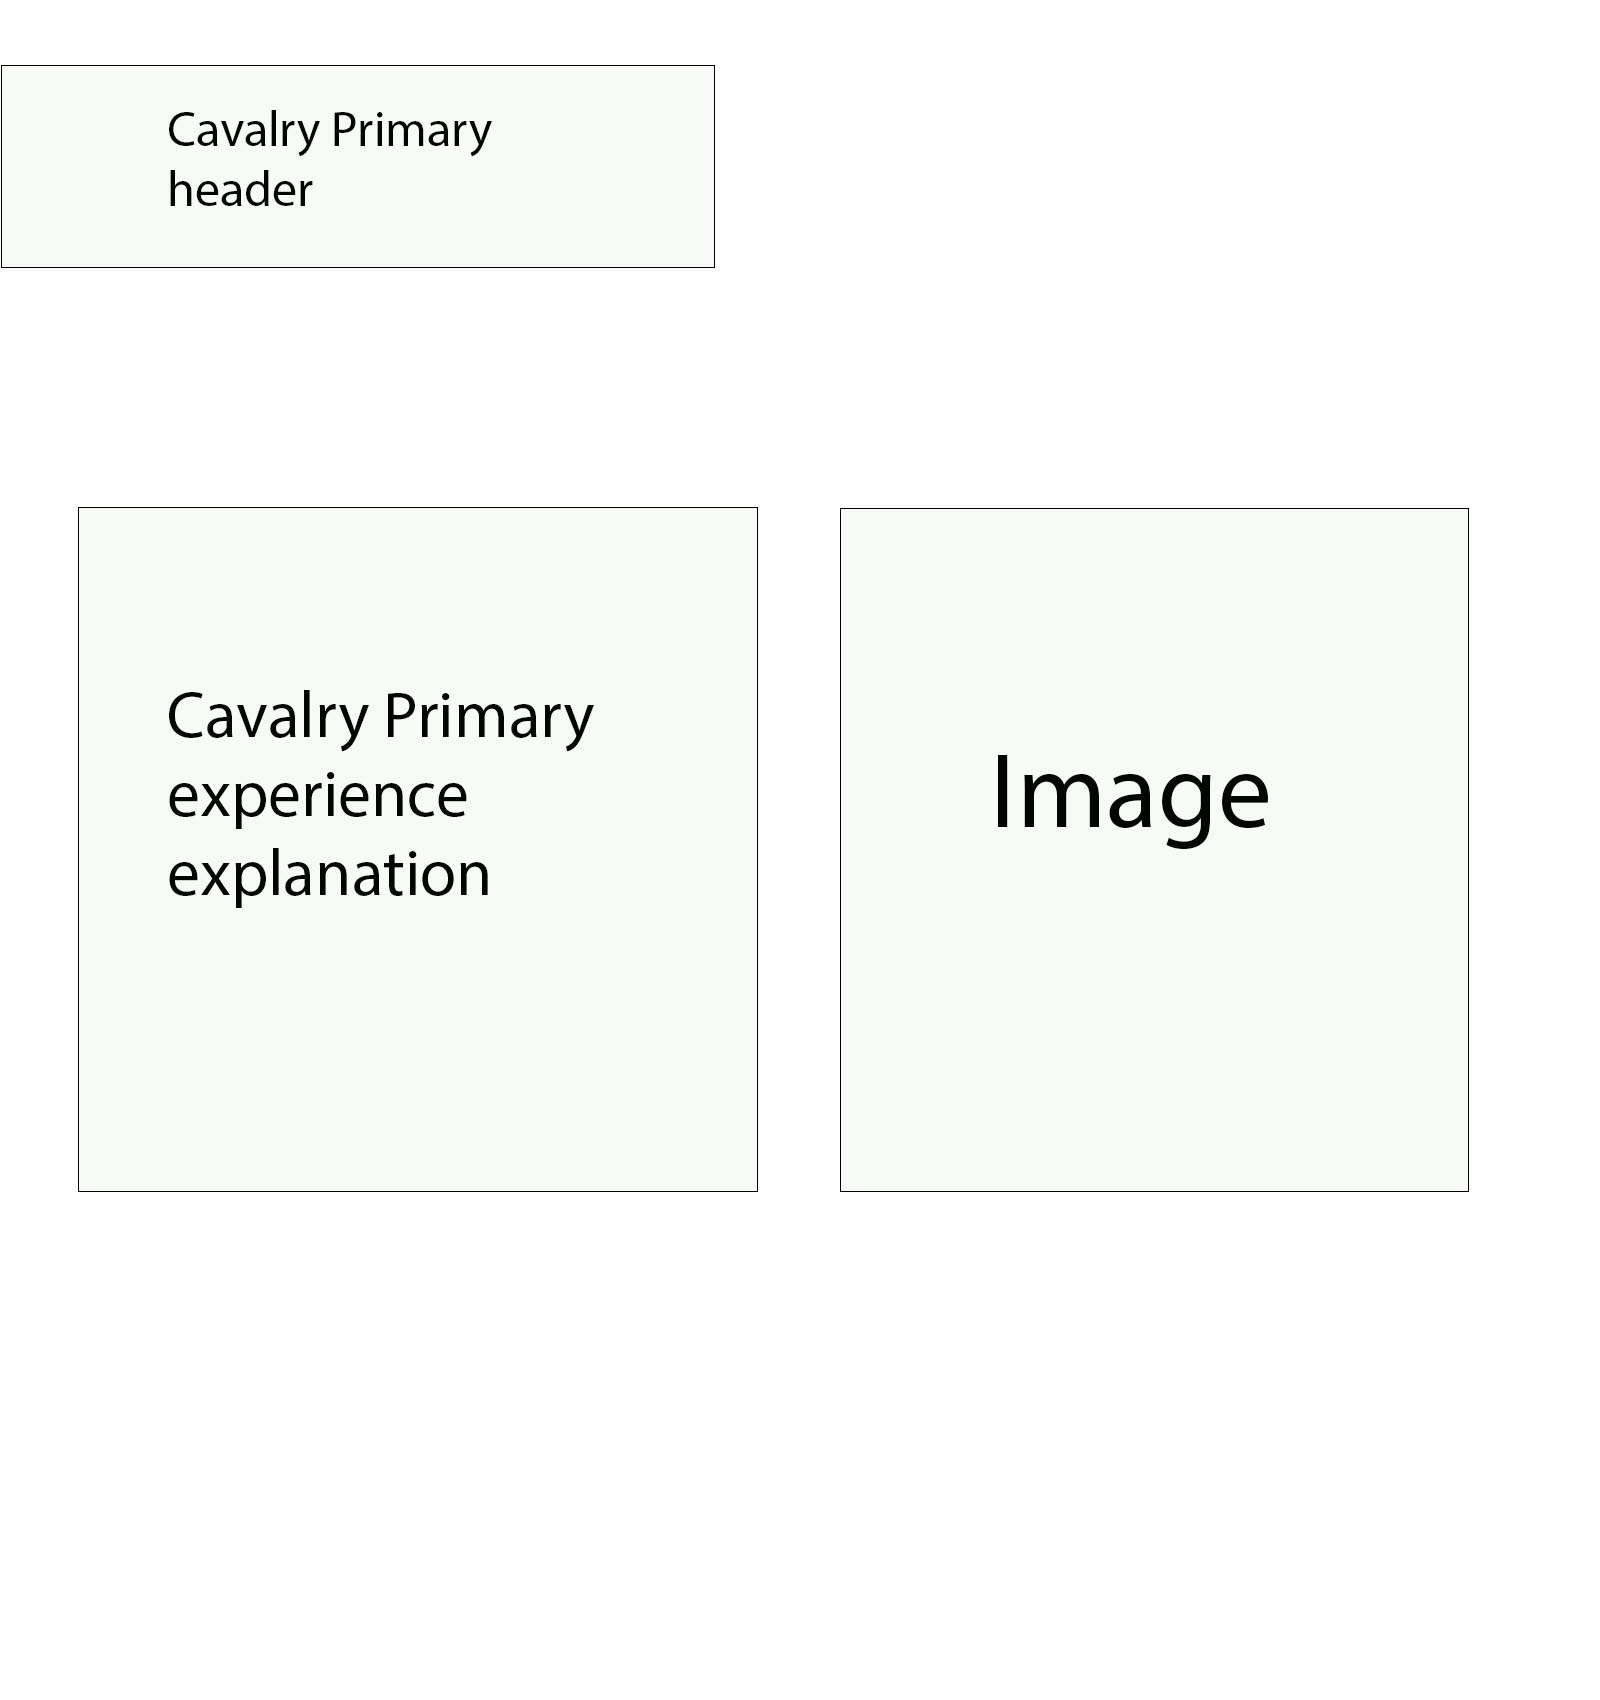
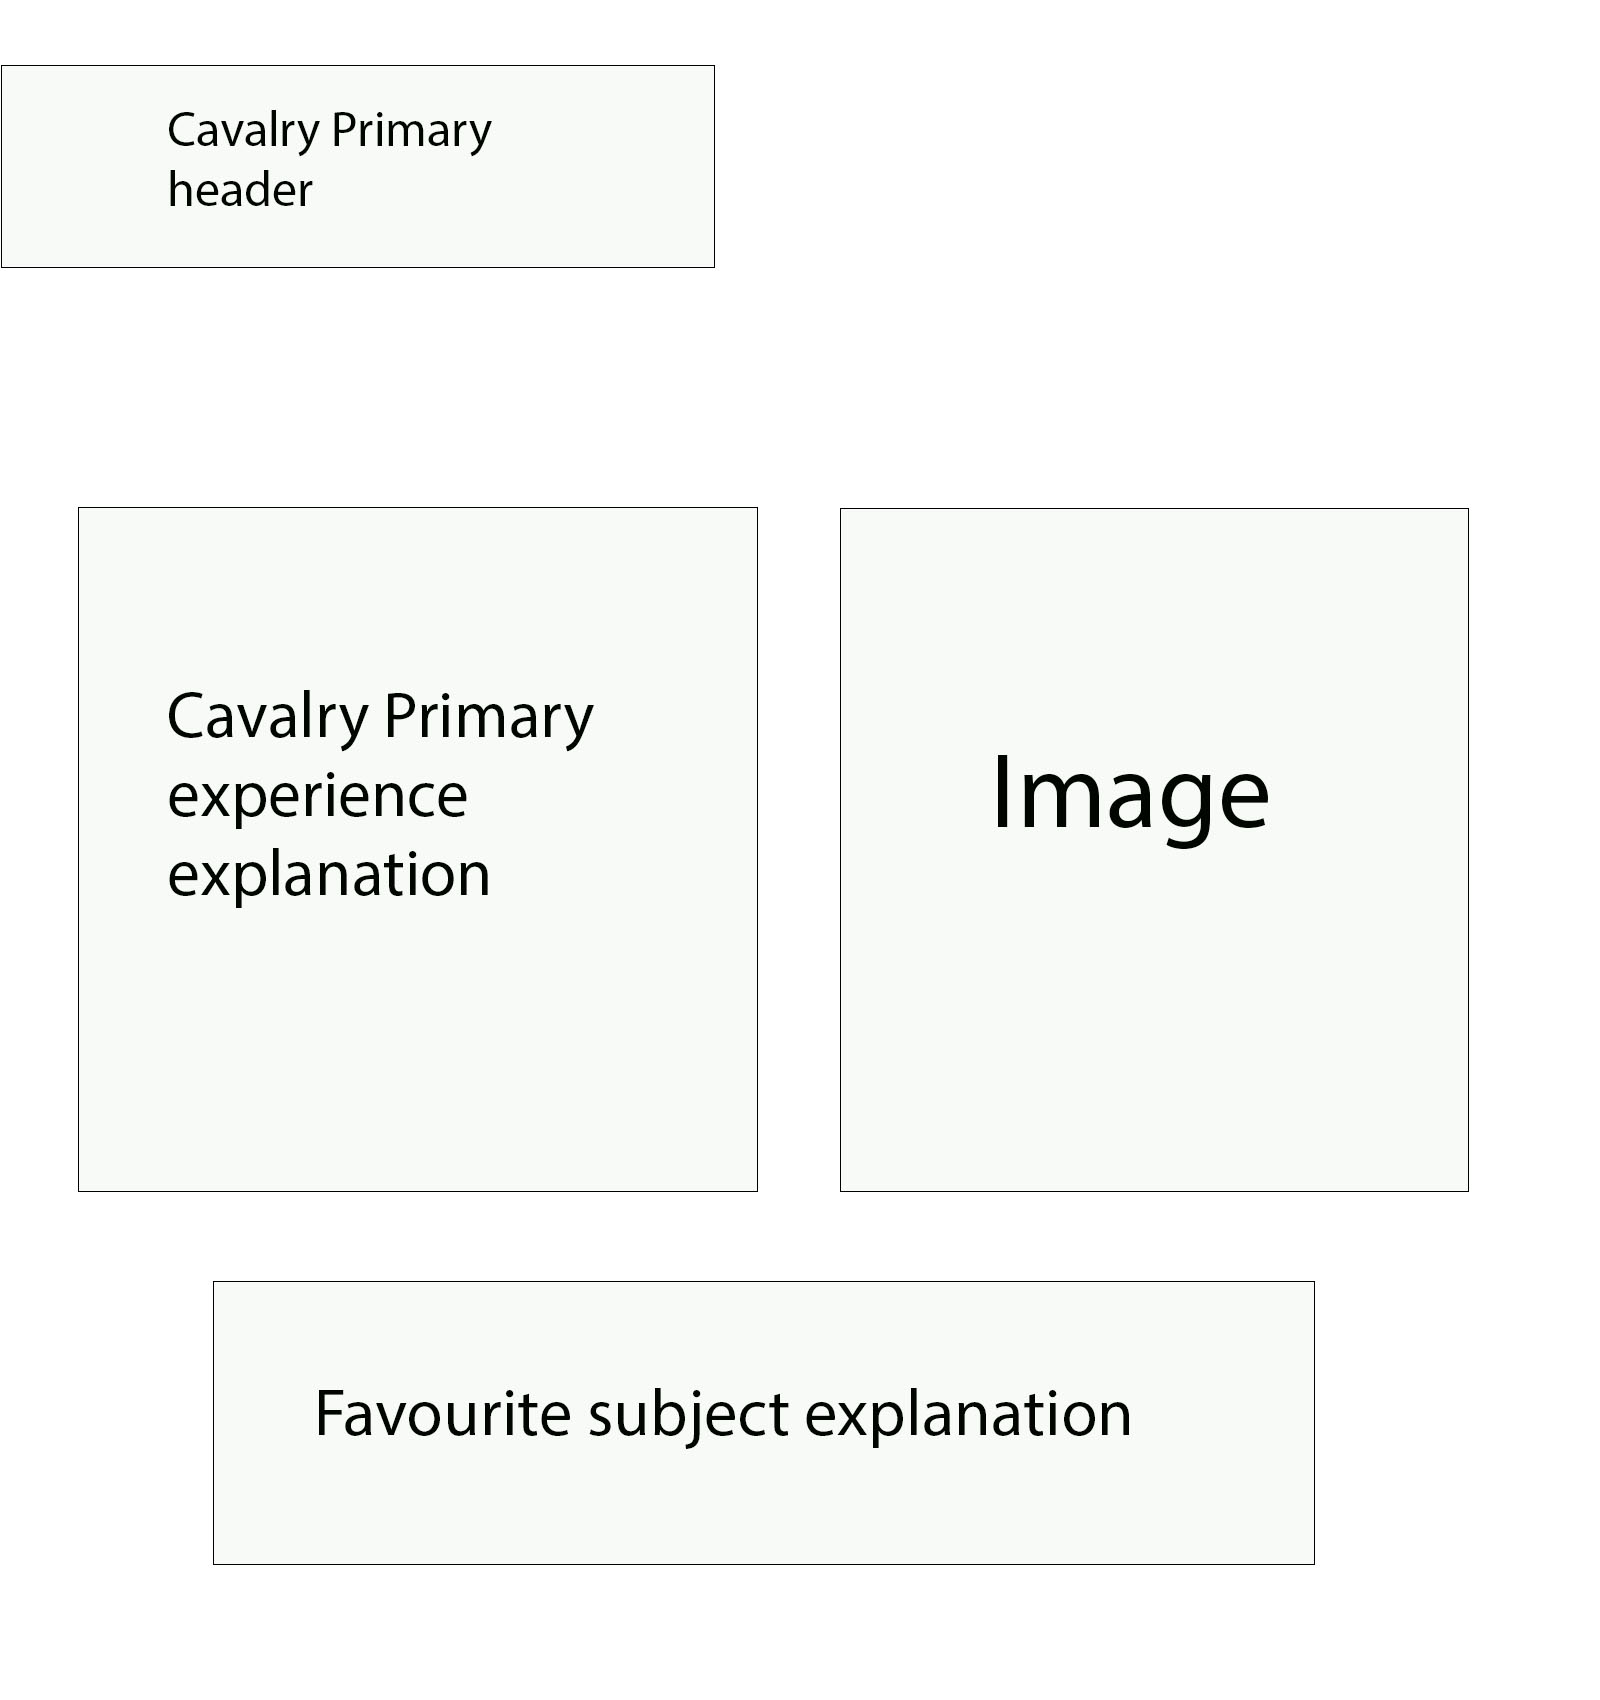
made some changes

Changed region(s): [[0.1875, 0.8106, 0.7188, 0.8418]]

diff --git a/Documentation/design/storyboard.md b/Documentation/design/storyboard.md
@@ -12,15 +12,21 @@ The image will be an image of me for my personal profile and the about me descri
 
 <img src="../Img/storyboards/MyEducationStoryboard.jpg" alt="alt text" height="100%" width="100%">
 
-This section is an introduction of my education experience in three schools I went to and the next three sections will go into more detail. Since this an introduction there isn't much to this page. There is the header at the top which will have that blue background like all of the other headers within this portfolio. There is text underneath that which is the introduction of my educational experience
+This section is an introduction of my education experience in three schools I went to and the next three sections will go into more detail. Since this an introduction there isn't much to this page. There is the header at the top which will have that blue background like all of the other headers within this portfolio. There is text underneath that which is the introduction of my educational experience and it identifies all three of the schools that I went to which is Cavalry Primary, Neale-Wade Academy and College of West Anglia. Then underneath that is a slide show of three images, each image is an establishing shot of the buildings of the three schools.
+
+I though that this layout for this section is appropriate because this section is only an introduction to three other sections which contain more detail. So in conclusion this section won't require a vast amount of features and components when it is only an introduction with a slide show.
 
 ## My college section
 
 <img src="../Img/storyboards/MyCollegeStoryboard.jpg" alt="alt text" height="100%" width="100%">
 
+This is one of the three sections that is apart of the 'My education' section. This section goes over some of my college experiences and it is one of the longer sections since it contains some of the work I completed in my computing course. It has two groups of text with one of them explaining my work on hardware management and one explaining my unit 13 which is the website development coursework. Each one has four images which are used as evidence to show that I have done these tasks and to prove that I have decent knowledege on these topics. I believed that this is a great layout for this section because contains all of this content into an organised and tidy layout which is crutial because the portfolio is mainly used to gain employers attention and having a professional layout is something that indicates that you put effort into it.
+
 ## Neale-Wade section
 
 <img src="../Img/storyboards/Neale-WadeStoryboard.jpg" alt="alt text" height="100%" width="100%">
+
+This section is the second of the three sections within the 'my education' section which explains my time in Neale-Wade Academy. The main attraction of this section is the topic of my GCSE results which is something that employers look for, so it is important to showcase them. Underneath the image of my GCSE results is an explanation for why media studies was my favourite chosen subject, this will give context to employers of what type of subjects interest me and how they ineterest me. The first reason this is my chosen layout for this section is because the image is at an appropriate size because it makes the results on it much more easily readable. 
 
 ## Cavalry Primary section
 

diff --git a/Documentation/design/colourscheme.md b/Documentation/design/colourscheme.md
@@ -1,0 +1,23 @@
+# Portfolio colour scheme
+
+This is the colour scheme that I will be using for my digital portfolio.
+
+<img src="../Img/pallette/colourscheme.png" alt="alt text" height="100%" width="100%">
+
+## Colour uses
+
+I will be using the white as the background of the whole portfolio and as the text colour for the headers becaus blue will be used as the background for the headers so white is a great colour to have as the text colour when it is mixing with a blue background. The black will be used as the text colour whenever there is a white background behind the text so that the text is visible. 
+
+I believe the colours that I have chosen are very suitable because they mix together well especially when it comes to the text because it is easily readable  and they aren't colours that make it difficlut to read and it indicates that I have acknowledged that people may have difficulties in reading the text when it is a certain colour. The blue and white I also think is rather fitting for this portfolio because it is a common colour scheme used online in the online world e.g. for websites, forums etc, and the portfolio is aimed at employers for IT jobs so this would be quite relevant.
+
+The only instance where there may be other colours included on the digital portfolio is when there are images or videos because they may contain their own colours which isn't a big deal because most of them will be contained in their own box to prevent them form taking up most of the space.
+
+# Alternative colour scheme
+
+This was another colour scheme idea that I had in mind but I ended up using the other one.
+
+<img src="../Img/pallette/AlternateColourscheme.png" alt="alt text" height="100%" width="100%">
+
+## Reasons I didn't choose this
+
+The main reason I didn't choose this colour scheme is because it is less related to IT than the other colour scheme. Eventhough I agree that this colour scheme looks organised and neat and the colours mix well, it looks more like a colour scheme that would be used in a portfolio for someone that wants a job that is related to something like geography since the green and grey theme may represent something like plants or climates etc. That's why I chose the other colour scheme, it is a colour scheme that is commonly used in websites and anything else within the online world. 
